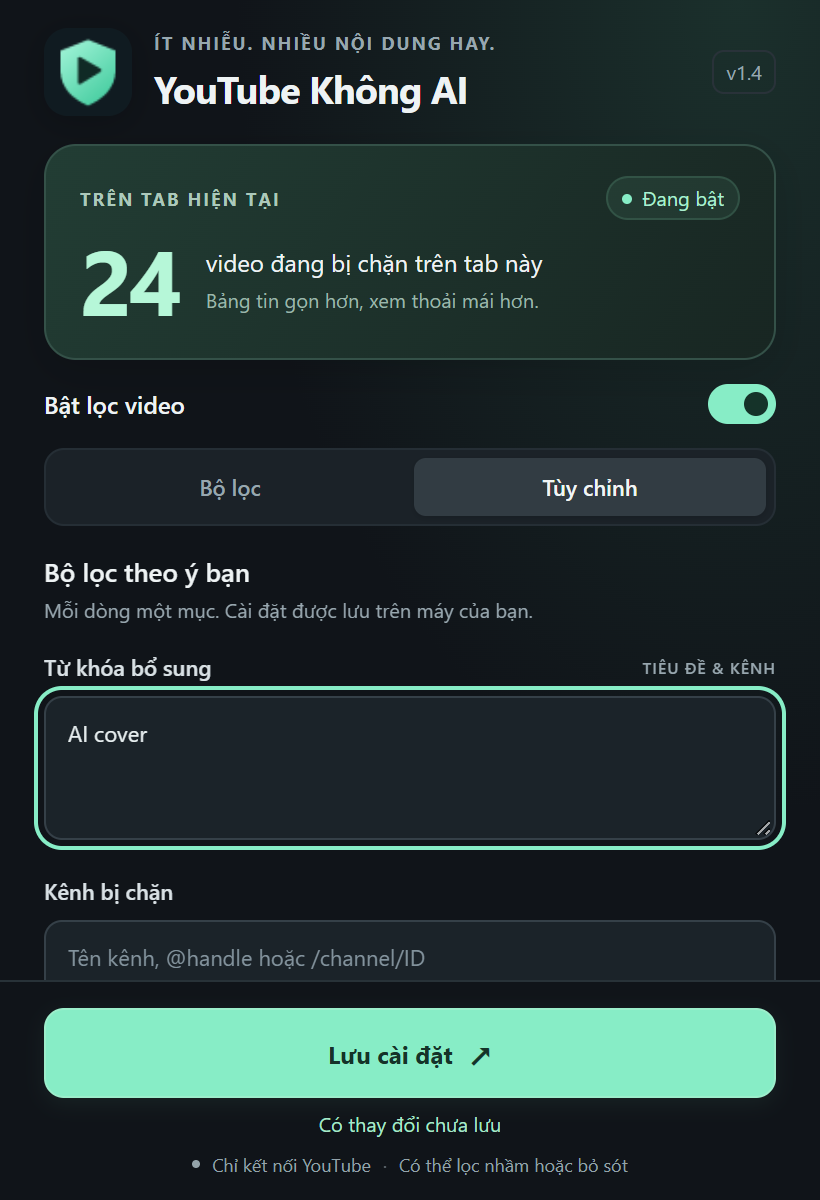
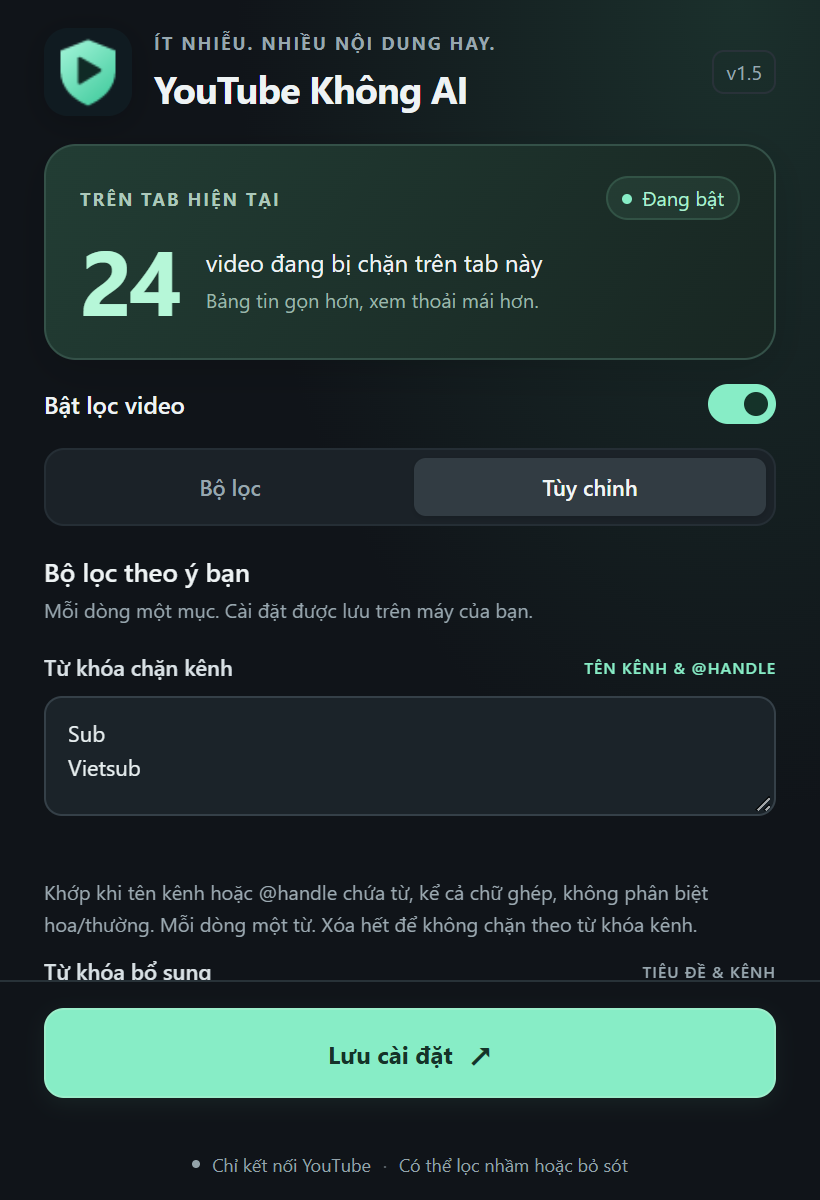
Add editable channel keywords and default Sub filter

diff --git a/popup.html b/popup.html
@@ -5,7 +5,7 @@
   <header class="brand">
     <img class="logo" src="icons/icon48.png" alt="" width="44" height="44">
     <div class="brand-copy"><span class="eyebrow">ÍT NHIỄU. NHIỀU NỘI DUNG HAY.</span><h1>YouTube Không AI</h1></div>
-    <span class="version">v1.4</span>
+    <span class="version">v1.5</span>
   </header>
   <section class="counter" aria-label="Thống kê lọc video">
     <div class="counter-top"><span class="eyebrow">TRÊN TAB HIỆN TẠI</span><span id="enabled-badge" class="badge"><i></i>Đang bật</span></div>
@@ -24,13 +24,15 @@
         <div class="rule-list">
           <label class="switch-row" for="checkLabels"><span class="rule-icon" aria-hidden="true">✦</span><span class="rule-copy"><strong>Kiểm tra nhãn AI</strong><small>Đọc nhãn YouTube, kể cả khi tiêu đề không có AI.</small></span><input id="checkLabels" type="checkbox" role="switch"></label>
           <label class="switch-row" for="filterStories"><span class="rule-icon" aria-hidden="true">≋</span><span class="rule-copy"><strong>Truyện xuyên không / trọng sinh</strong><small>Lọc nhóm tiêu đề truyện. Có thể ẩn cả video không AI.</small></span><input id="filterStories" type="checkbox" role="switch"></label>
-          <label class="switch-row" for="filterVietsubChannels"><span class="rule-icon" aria-hidden="true">⊘</span><span class="rule-copy"><strong>Kênh có tên Vietsub</strong><small>Khớp cả Viet Sub, Viet-sub trong tên hoặc @handle.</small></span><input id="filterVietsubChannels" type="checkbox" role="switch"></label>
+          <label class="switch-row" for="filterVietsubChannels"><span class="rule-icon" aria-hidden="true">⊘</span><span class="rule-copy"><strong>Từ khóa trong tên kênh</strong><small>Mặc định Sub, Vietsub. Thêm từ ở tab Tùy chỉnh.</small></span><input id="filterVietsubChannels" type="checkbox" role="switch"></label>
           <label class="switch-row" for="compact"><span class="rule-icon" aria-hidden="true">−</span><span class="rule-copy"><strong>Ẩn hoàn toàn</strong><small>Bỏ cả ô giải thích và nút hiện lại video.</small></span><input id="compact" type="checkbox" role="switch"></label>
         </div>
         <p class="note"><span aria-hidden="true">ⓘ</span> Kiểm tra nhãn có thể mất vài giây. Kênh được cho phép vẫn bị lọc nếu có nhãn AI.</p>
       </section>
       <section id="panel-custom" role="tabpanel" aria-labelledby="tab-custom" hidden>
         <div class="panel-intro"><h2>Bộ lọc theo ý bạn</h2><p>Mỗi dòng một mục. Cài đặt được lưu trên máy của bạn.</p></div>
+        <label class="field-label" for="channelKeywords">Từ khóa chặn kênh<span class="field-tag mint">TÊN KÊNH & @HANDLE</span></label><textarea id="channelKeywords" rows="2" placeholder="Sub&#10;Vietsub&#10;Thêm từ bạn muốn chặn…" aria-describedby="channel-keywords-hint"></textarea>
+        <p id="channel-keywords-hint" class="note">Khớp khi tên kênh hoặc @handle chứa từ, kể cả chữ ghép, không phân biệt hoa/thường. Mỗi dòng một từ. Xóa hết để không chặn theo từ khóa kênh.</p>
         <label class="field-label" for="keywords">Từ khóa bổ sung<span class="field-tag">TIÊU ĐỀ & KÊNH</span></label><textarea id="keywords" rows="3" placeholder="Ví dụ: AI cover&#10;review truyện"></textarea>
         <label class="field-label" for="blockedChannels">Kênh bị chặn</label><textarea id="blockedChannels" rows="2" placeholder="Tên kênh, @handle hoặc /channel/ID"></textarea>
         <label class="field-label" for="allowedChannels">Kênh luôn được hiển thị<span class="field-tag mint">NGOẠI LỆ</span></label><textarea id="allowedChannels" rows="2" placeholder="Tên kênh, @handle hoặc /channel/ID"></textarea>

diff --git a/filter.js b/filter.js
@@ -7,6 +7,7 @@
     checkLabels: true,
     filterStories: true,
     filterVietsubChannels: true,
+    channelKeywords: ['Sub', 'Vietsub'],
     keywords: [],
     blockedChannels: [],
     allowedChannels: []
@@ -45,7 +46,7 @@
   }
   function cleanSettings(value = {}) {
     const settings = { ...defaults, ...value };
-    for (const key of ['keywords', 'blockedChannels', 'allowedChannels']) {
+    for (const key of ['keywords', 'channelKeywords', 'blockedChannels', 'allowedChannels']) {
       settings[key] = Array.isArray(settings[key])
         ? [...new Set(settings[key].filter(v => typeof v === 'string').map(v => v.trim()).filter(Boolean))] : [];
     }
@@ -68,9 +69,9 @@
     if (settings.allowedChannels.some(entry => matchChannel(channel, entry))) return null;
     const blocked = settings.blockedChannels.find(entry => matchChannel(channel, entry));
     if (blocked) return { type: 'channel', reason: `Kênh bị chặn: ${blocked}` };
-    if (settings.filterVietsubChannels && [channel.name, channel.handle].some(value => /viet[\s._-]*sub/.test(normalize(value)))) {
-      return { type: 'channel', reason: 'Tên kênh hoặc handle chứa Vietsub' };
-    }
+    const channelKeyword = settings.filterVietsubChannels && settings.channelKeywords.find(term =>
+      [channel.name, channel.handle].some(value => normalize(value).includes(normalize(term))));
+    if (channelKeyword) return { type: 'channel', reason: `Từ khóa kênh: ${channelKeyword}` };
     const text = [video.title, video.description, channel.name, channel.handle].filter(Boolean).join(' ');
     const custom = settings.keywords.find(term => includesTerm(text, term));
     if (custom) return { type: 'keyword', reason: `Từ khóa của bạn: ${custom}` };

diff --git a/tests/popup.test.js b/tests/popup.test.js
@@ -29,12 +29,15 @@ test('popup đọc số video từ tab hiện tại và lưu tùy chọn lọc t
     assert.deepEqual(messages, [[23, 'noai-status']]);
     assert.equal(document.getElementById('filterStories').checked, true);
     assert.equal(document.getElementById('filterVietsubChannels').checked, true);
+    assert.equal(document.getElementById('channelKeywords').value, 'Sub\nVietsub');
+    document.getElementById('channelKeywords').value = 'Sub\nDrama\n  \nDrama';
     document.getElementById('filterVietsubChannels').checked = false;
     document.getElementById('filterStories').checked = false;
     document.getElementById('settings-form').dispatchEvent(new dom.window.Event('submit', { cancelable: true }));
     await tick();
     assert.equal(settings.filterStories, false);
     assert.equal(settings.filterVietsubChannels, false);
+    assert.deepEqual(Array.from(settings.channelKeywords), ['Sub', 'Drama']);
     assert.deepEqual(Array.from(settings.keywords), ['example']);
   } finally { dom.window.close(); }
 });

diff --git a/popup.js b/popup.js
@@ -1,8 +1,8 @@
 (() => {
   'use strict';
   const api = globalThis.YouTubeAIFilter;
-  const fields = ['enabled', 'mode', 'compact', 'checkLabels', 'filterStories', 'filterVietsubChannels', 'keywords', 'blockedChannels', 'allowedChannels'];
-  const lists = ['keywords', 'blockedChannels', 'allowedChannels'];
+  const fields = ['enabled', 'mode', 'compact', 'checkLabels', 'filterStories', 'filterVietsubChannels', 'channelKeywords', 'keywords', 'blockedChannels', 'allowedChannels'];
+  const lists = ['keywords', 'channelKeywords', 'blockedChannels', 'allowedChannels'];
   const status = document.getElementById('status');
   const save = document.getElementById('save');
   const enabledBadge = document.getElementById('enabled-badge');

diff --git a/tests/content.test.js b/tests/content.test.js
@@ -143,7 +143,7 @@ test('lọc kênh Vietsub và cập nhật số đếm khi tắt tùy chọn', a
   try {
     assert.equal((await dom.window.readFilterStatus()).hidden, 1);
     assert.ok(dom.window.document.getElementById('vietsub').classList.contains('yt-noai-hidden'));
-    assert.match(dom.window.document.querySelector('.yt-noai-placeholder').textContent, /Vietsub/);
+    assert.match(dom.window.document.querySelector('.yt-noai-placeholder').textContent, /Từ khóa kênh: Sub/);
     await dom.window.chrome.storage.local.set({ settings: { filterVietsubChannels: false } });
     assert.equal((await dom.window.readFilterStatus()).hidden, 0);
   } finally { dom.window.close(); }

diff --git a/README.md b/README.md
@@ -13,7 +13,7 @@ Extension Chrome/Edge giúp bạn tùy chỉnh bảng tin YouTube: lọc video c
 - **Nhãn AI:** kiểm tra nhãn YouTube dù tiêu đề không chứa từ “AI”.
 - **Từ khóa:** lọc nội dung về AI, thêm từ khóa riêng.
 - **Lọc thể loại:** tùy chọn ẩn truyện xuyên không / trọng sinh.
-- **Lọc kênh:** chặn kênh Vietsub, thêm danh sách chặn hoặc cho phép.
+- **Lọc kênh:** chặn tên có Sub/Vietsub, tự thêm từ khóa kênh, danh sách chặn hoặc cho phép.
 - **Bạn kiểm soát:** hiện lại video, xem lý do lọc hoặc ẩn hoàn toàn.
 - **Bộ đếm:** số thẻ video đang bị chặn trên tab hiện tại.
 - **Giao diện tiếng Việt:** tông tối, công tắc nhanh, hai tab cài đặt.
@@ -53,7 +53,8 @@ Filters use visible text and YouTube AI disclosures, not audio/image analysis. S
 - Trong popup: bật/tắt, đổi phạm vi, ẩn hoàn toàn, thêm từ khóa và quản lý danh sách kênh. Bấm **Lưu cài đặt** để áp dụng vào các tab đang mở.
 - Popup hiển thị số thẻ video **đang bị chặn trên tab YouTube hiện tại**, cập nhật mỗi giây khi popup mở. Không cộng dồn lịch sử hoặc cộng các tab khác; hiện lại video hoặc tắt lọc sẽ giảm số đếm. Các thẻ cùng video xuất hiện nhiều vị trí được đếm riêng.
 - Mặc định bật **Lọc truyện xuyên không / trọng sinh** theo tiêu đề: “xuyên về”, “xuyên không”, “xuyên đến”, “trọng sinh”, “tái sinh”, “chuyển sinh”. Nhóm này lọc ngay cả khi không tìm thấy nhãn AI. Đây là lựa chọn lọc thể loại theo yêu cầu, không phải khẳng định video đó dùng AI. Có thể tắt hoặc cho phép kênh để giữ video thuộc nhóm này.
-- Mặc định bật **Chặn kênh có tên Vietsub**: ẩn video khi tên kênh hoặc @handle chứa `Vietsub`, kể cả `Viet Sub`, `Viet-sub`, `Viet_sub`, `Viet.sub`, không phân biệt hoa/thường. Quy tắc chỉ xét kênh, không xét chữ Vietsub trong tiêu đề video hoặc ID kênh. Có thể tắt trong popup hoặc thêm kênh vào danh sách cho phép.
+- Mặc định bật **Từ khóa trong tên kênh**, với danh sách `Sub`, `Vietsub`. Ẩn video khi tên kênh hoặc @handle chứa một mục trong danh sách, không phân biệt hoa/thường hoặc dấu tiếng Việt, kể cả chữ ghép như `EngSub`, `PhimSubHay`. Vì `Sub` khớp chuỗi con nên tên như `Subscribe TV` cũng khớp. Quy tắc chỉ xét kênh, không xét tiêu đề video, mô tả hay ID kênh.
+- Thêm hoặc sửa từ tại **Tùy chỉnh → Từ khóa chặn kênh**, mỗi dòng một từ/cụm từ, rồi **Lưu cài đặt**. Xóa hết để tắt việc chặn bằng danh sách từ khóa kênh. Công tắc ở tab Bộ lọc bật/tắt toàn bộ quy tắc này. Kênh trong danh sách cho phép vẫn được ưu tiên (trừ nhãn AI).
 - Mỗi dòng một từ khóa hoặc kênh. Kênh nhận tên chính xác, `@handle`, `/@handle`, hoặc `/channel/ID`. Tên hiển thị có thể trùng; ưu tiên handle hoặc đường dẫn kênh.
 - Tắt lọc sẽ khôi phục các thẻ video đã ẩn. Tiện ích không dừng video đang phát hoặc tự bỏ qua Shorts trong trình phát.
 

diff --git a/store/PUBLISHING.md b/store/PUBLISHING.md
@@ -2,7 +2,7 @@
 
 ## Gói tải lên
 
-File `output/youtube-khong-ai-1.4.0.zip` chứa manifest ở gốc, mã chạy của tiện ích và icon. Không chứa `node_modules`, kiểm thử hoặc ảnh minh họa. Đây là gói code để tải lên, không thay thế các mục hồ sơ cửa hàng bên dưới.
+File `output/youtube-khong-ai-1.5.0.zip` chứa manifest ở gốc, mã chạy của tiện ích và icon. Không chứa `node_modules`, kiểm thử hoặc ảnh minh họa. Đây là gói code để tải lên, không thay thế các mục hồ sơ cửa hàng bên dưới.
 
 ## Quy trình
 
@@ -25,7 +25,7 @@ YouTube Không AI giúp bạn ẩn các thẻ video không muốn xem trên YouT
 
 - Lọc nội dung về AI hoặc video có dấu hiệu do AI tạo bằng từ khóa.
 - Kiểm tra nhãn AI của YouTube ngay cả khi tiêu đề không nhắc AI. Kiểm tra bổ sung tải thông tin trang video từ YouTube khi thẻ gần vùng nhìn thấy; có thể mất vài giây.
-- Tùy chọn lọc nhóm truyện xuyên không/trọng sinh và kênh có tên Vietsub. Đây là bộ lọc theo sở thích, không phải xác nhận các video thuộc nhóm đó do AI tạo.
+- Tùy chọn lọc nhóm truyện xuyên không/trọng sinh và tên kênh chứa Sub/Vietsub hoặc từ khóa bạn tự nhập. Đây là bộ lọc theo sở thích, không phải xác nhận các video thuộc nhóm đó do AI tạo.
 - Thêm từ khóa, chặn kênh, cho phép kênh và hiện lại video bị lọc nhầm.
 - Xem số video đang bị chặn trên tab hiện tại.
 - Giao diện tiếng Việt, tùy chọn ẩn hoàn toàn hoặc hiển thị lý do lọc.

diff --git a/store/PRIVACY_POLICY.md b/store/PRIVACY_POLICY.md
@@ -1,6 +1,6 @@
 # Chính sách quyền riêng tư — YouTube Không AI
 
-Cập nhật: 12/10/2026. Áp dụng cho phiên bản 1.4.0.
+Cập nhật: 12/10/2026. Áp dụng cho phiên bản 1.5.0.
 
 > Trước khi đăng công khai, thay thông tin nhà phát triển và liên hệ ở cuối trang bằng thông tin thật.
 
@@ -14,7 +14,7 @@ Khi bật kiểm tra nhãn AI từ trang video, tiện ích gửi yêu cầu HTT
 
 ## Lưu trữ và thời hạn
 
-Cài đặt bật/tắt, từ khóa, danh sách chặn và danh sách cho phép được lưu trong `chrome.storage.local` trên máy của người dùng, không dùng đồng bộ tài khoản.
+Cài đặt bật/tắt, từ khóa nội dung, từ khóa tên kênh, danh sách chặn và danh sách cho phép được lưu trong `chrome.storage.local` trên máy của người dùng, không dùng đồng bộ tài khoản.
 
 Kết quả kiểm tra nhãn được lưu trong bộ nhớ của từng tab, tối đa 500 mục. Kết quả hết hạn sau 1 giờ; khi kiểm tra không thành công, mục tạm hết hạn sau 10 phút. Tải lại hoặc đóng tab sẽ xóa bộ nhớ này. Số đếm không phải lịch sử cộng dồn và không được gửi cho nhà phát triển.
 
